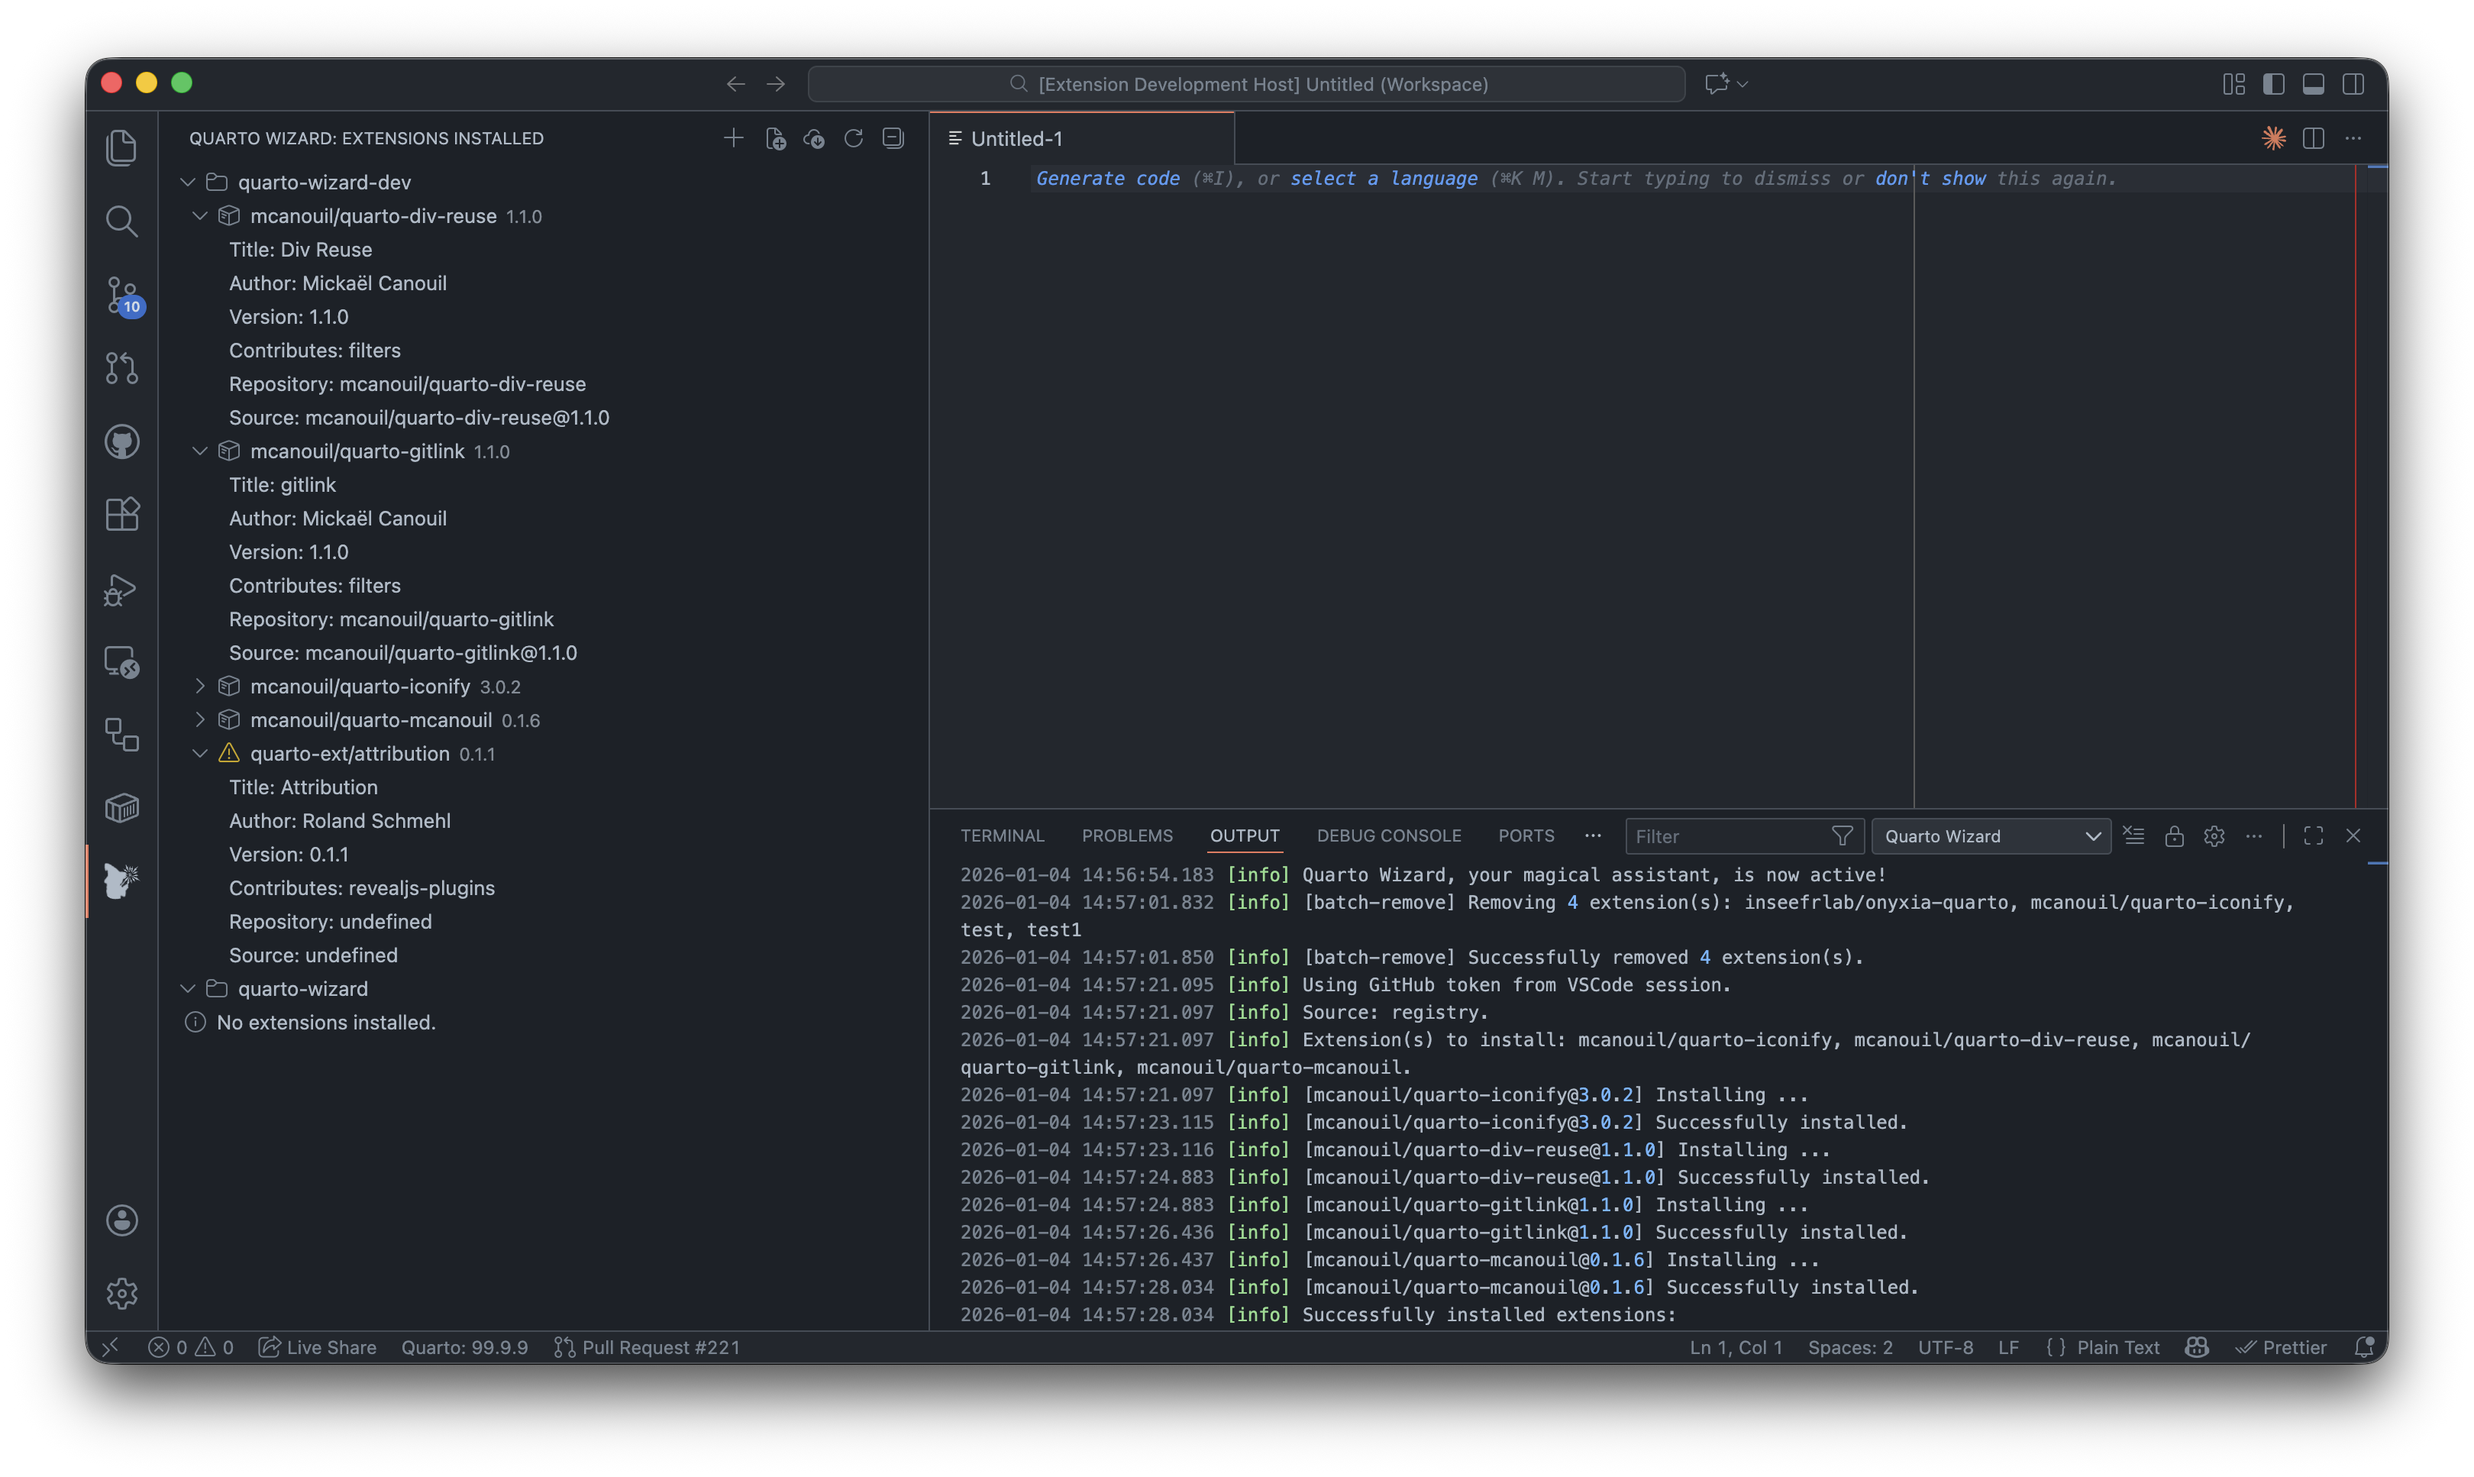
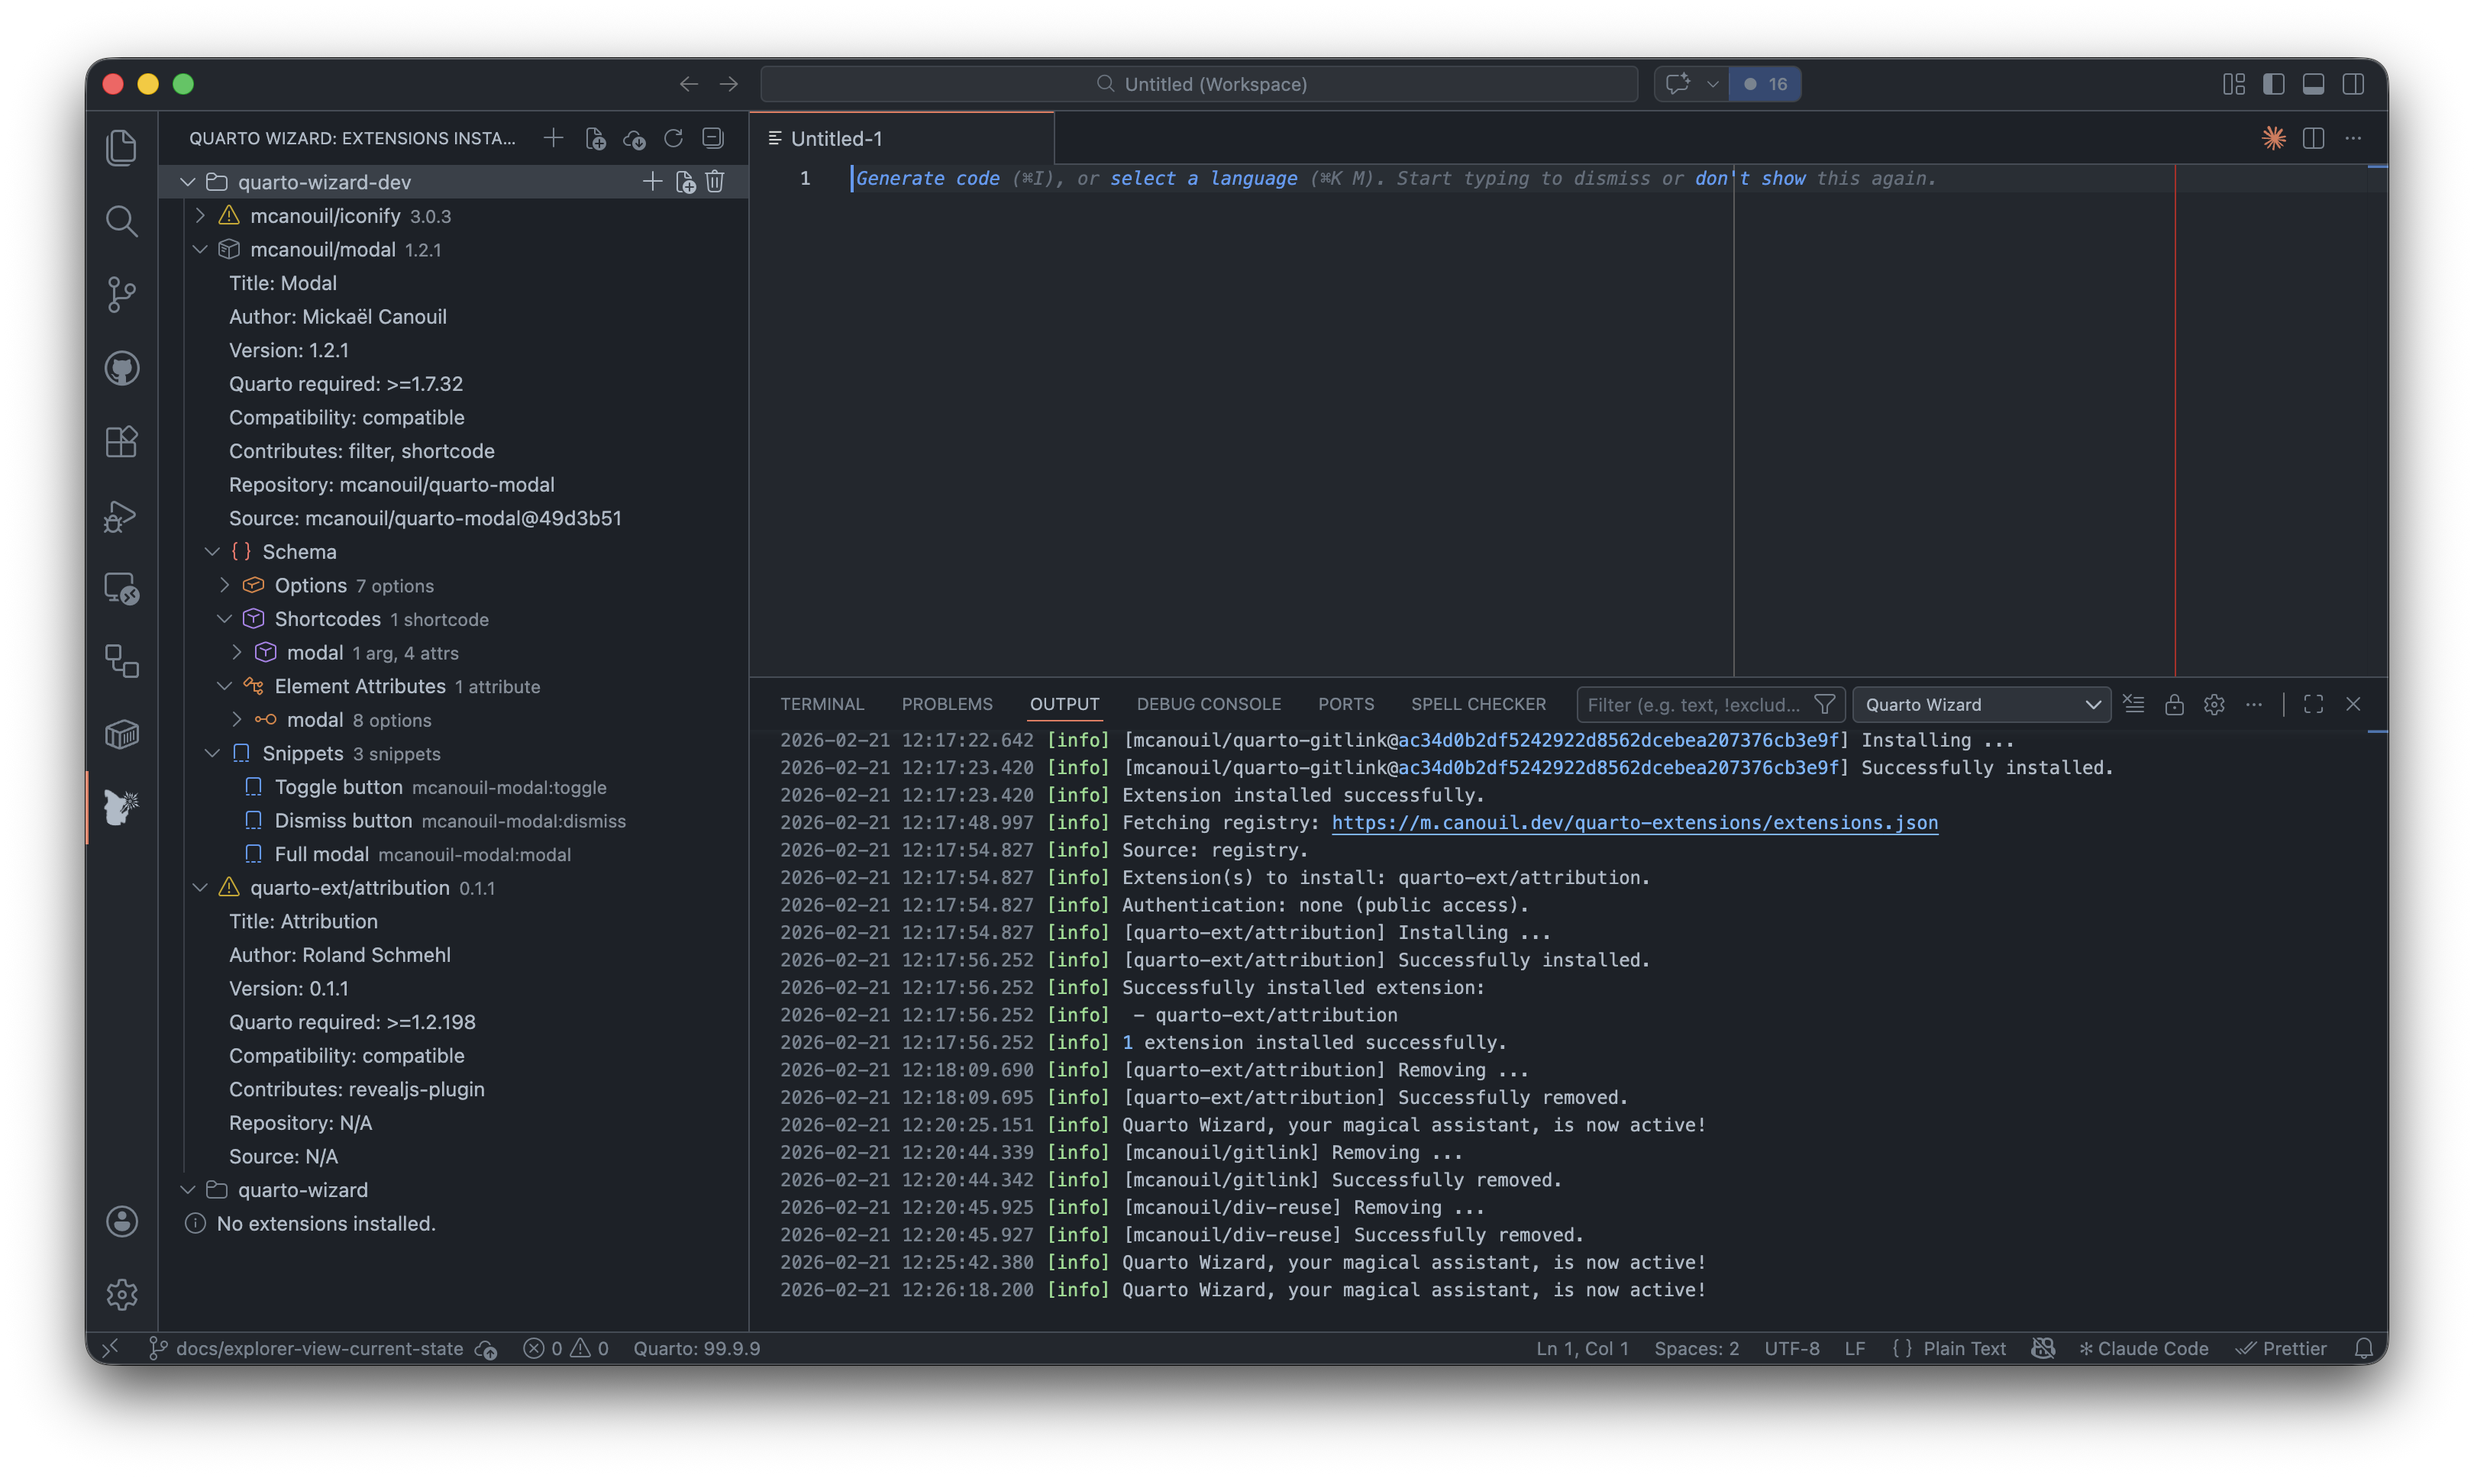
docs: update and improve documentation (#283)

diff --git a/assets/walkthroughs/explorer-view.md b/assets/walkthroughs/explorer-view.md
@@ -6,15 +6,17 @@ The Quarto Wizard Explorer provides a centralised view of all your installed ext
 
 - **View all installed extensions** across workspace folders.
 - **Check for updates** with automatic version detection.
+- **Review compatibility** from `quarto-required` and extension compatibility status.
+- **Inspect schema and snippets** directly from nested `Schema` and `Snippets` nodes.
 - **Update extensions** with one click.
 - **Remove extensions** easily.
-- **Open GitHub repositories** for documentation.
+- **Open GitHub repositories** (if source is available) and reveal extension folders in Explorer.
 
-Click the Quarto Wizard icon in the Activity Bar to access the Explorer view.
+Click the Quarto Wizard icon in the Activity Bar to access the Explorer View.
 
 [Open Explorer View](command:workbench.view.extension.quarto-wizard-explorer)
 
-![Quarto Wizard Explorer View showing installed extensions with options to add, remove, update extensions, use templates, and open GitHub repository](../images/explorer-view.png)
+![Quarto Wizard Explorer View with installed extensions, compatibility details, schema and snippet nodes, and management actions](../images/explorer-view.png)
 
 Extensions installed via Quarto Wizard include source tracking for seamless updates.
 

diff --git a/assets/walkthroughs/install-extension.md b/assets/walkthroughs/install-extension.md
@@ -10,7 +10,7 @@ Quarto Wizard provides access to over 250 Quarto extensions from the community.
 4. Browse and select extensions.
 5. Confirm the installation.
 
-You can also click the **Install** button in the Quarto Wizard Explorer view.
+You can also click the **Install** button in the Quarto Wizard Explorer View.
 
 [Install Extensions](command:quartoWizard.installExtension)
 
@@ -21,9 +21,9 @@ Extensions are installed from GitHub releases/tags for stability and reproducibi
 Quarto Wizard supports installing extensions from private GitHub repositories.
 Configure authentication using one of:
 
-- VS Code's built-in GitHub authentication.
-- Environment variables (`GITHUB_TOKEN` or `QUARTO_WIZARD_TOKEN`).
 - Manual token setup via **"Quarto Wizard: Set GitHub Token (Manual)"**.
+- Environment variables (`GITHUB_TOKEN` or `QUARTO_WIZARD_TOKEN`).
+- VS Code's built-in GitHub authentication (offered automatically on authentication errors).
 
 [Set GitHub Token (Manual)](command:quartoWizard.setGitHubToken)
 

diff --git a/assets/walkthroughs/use-template.md b/assets/walkthroughs/use-template.md
@@ -6,9 +6,9 @@ Templates help you quickly start new documents with pre-configured formats.
 
 1. Open the Command Palette (`Ctrl+Shift+P` or `Cmd+Shift+P`).
 2. Type **"Quarto Wizard: Use Template"**.
-3. Browse available templates (_e.g._, academic papers, journals, letters).
-4. Select a template.
-5. Customise and save the document.
+3. Select a source (Registry, GitHub, URL, or Local).
+4. Browse and select a template.
+5. Choose the workspace folder and select which template files to copy.
 
 [Use Template](command:quartoWizard.useTemplate)
 
